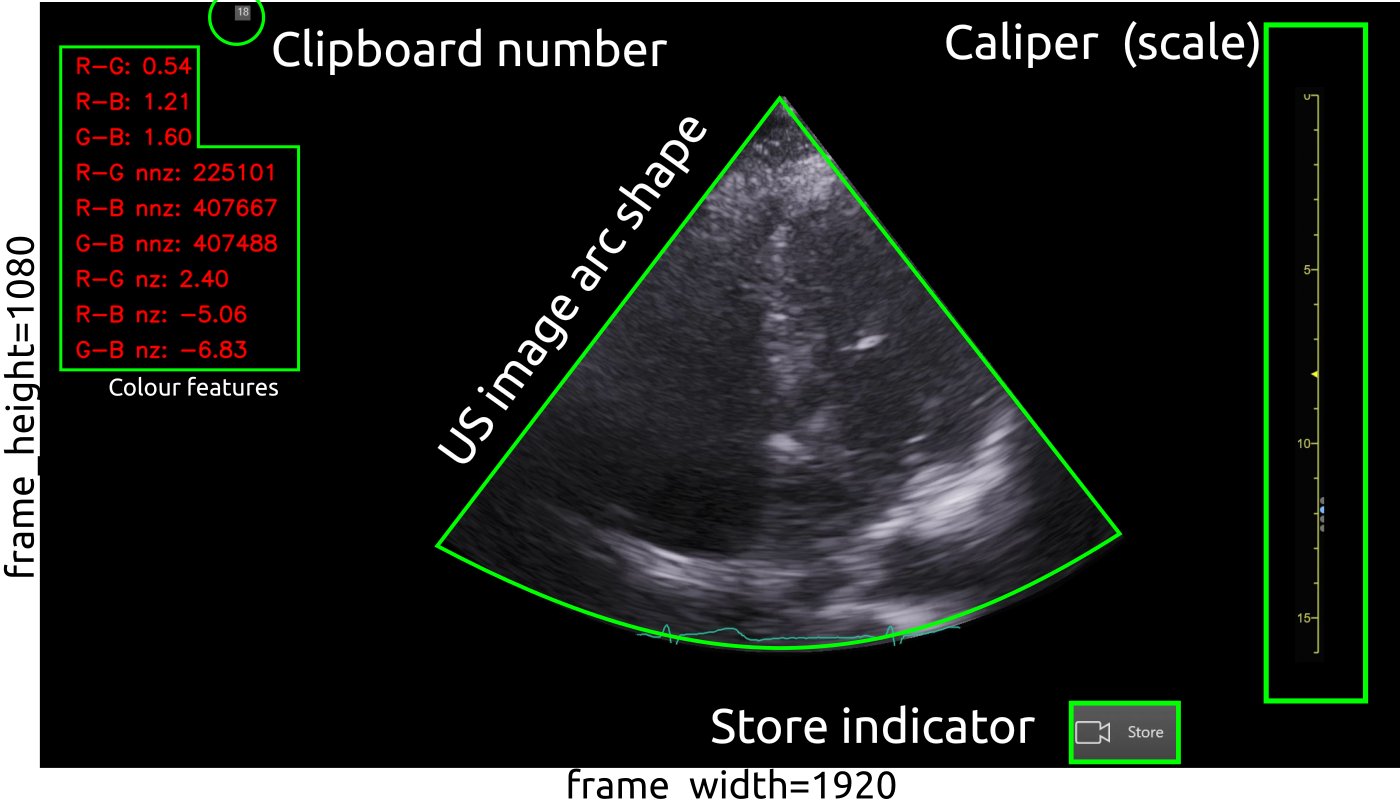
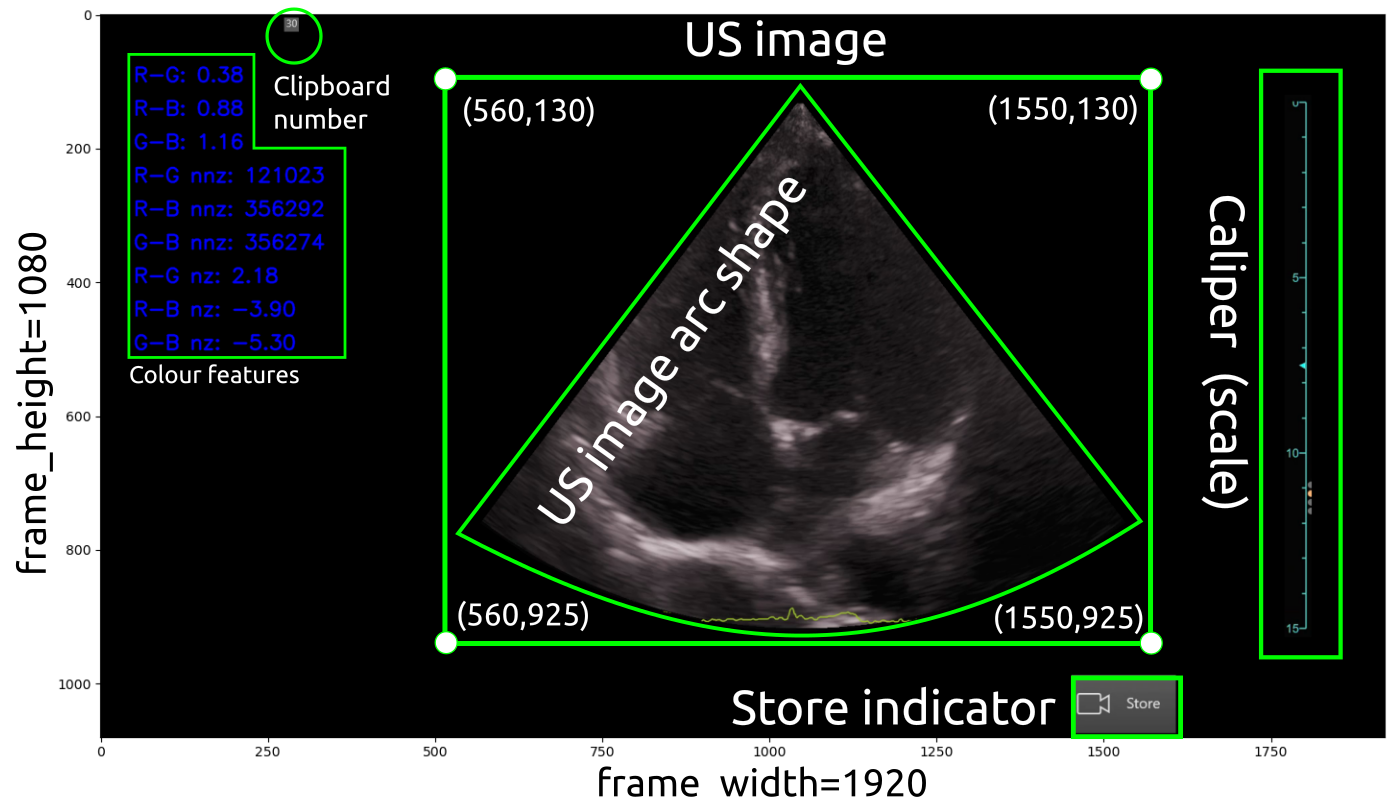
#13 adds: bounds to yml; methods for img; and updates main README

diff --git a/datasets/curation-and-selection/video_to_imageframes.py b/datasets/curation-and-selection/video_to_imageframes.py
@@ -2,7 +2,7 @@ import argparse
 import json
 import os
 from time import time
-from typing import Tuple
+from typing import Tuple, List
 
 import cv2 as cv
 import matplotlib.pyplot as plt
@@ -79,15 +79,23 @@ def maks_for_captured_us_image(image_frame_array_3ch: np.ndarray):
     maskedImage = cv.bitwise_and(image_frame_array_3ch, image_frame_array_3ch, mask=mask)
 
     # JUST FOR QUICK VISUALISATION OF THE MASKS
-    # plt.imshow(image_frame_array_BW_1ch)
-    # plt.imshow(maskedImage)
-    # plt.show()
 
     return maskedImage
 
+@timer_func
+def cropped_image_frame(image_frame_array_3ch: np.ndarray, bounds: List):
+    cropped_image_frame = image_frame_array_3ch[
+                      int(bounds['start_y']):int(bounds['start_y'] + bounds['height']),
+                      int(bounds['start_x']):int(bounds['start_x'] + bounds['width']), :]
+    return cropped_image_frame
+
+def show_image(ima_array: np.ndarray) -> None:
+    plt.imshow(ima_array)
+    plt.show()
+
 
 @timer_func
-def Video_to_ImageFrame(videofile_in: str, image_frames_path: str, path_with_json_file: str, bounds=None):
+def Video_to_ImageFrame(videofile_in: str, image_frames_path: str, path_with_json_file: str, bounds: List):
     """
      Computes Channel Measurements per Frame
      bounds: (start_x  ,start_y, width, heigh )
@@ -152,9 +160,7 @@ def Video_to_ImageFrame(videofile_in: str, image_frames_path: str, path_with_jso
 
                             print(image_frames_path + '/nframes{:05d}.png'.format(image_frame_index))
 
-                            # cropped_image_frame = image_frame[in/t(bounds[1]):int(bounds[1] + bounds[3]), int(bounds[0]):int(bounds[0] + bounds[2]), :]
                             masked_image_frame_array_3ch_i = maks_for_captured_us_image(image_frame_array_3ch_i)
-
 
                             Rch_image_frame_array = masked_image_frame_array_3ch_i[..., 2].astype(float)
                             Gch_image_frame_array = masked_image_frame_array_3ch_i[..., 1].astype(float)
@@ -222,17 +228,12 @@ def Video_to_ImageFrame(videofile_in: str, image_frames_path: str, path_with_jso
                                                                         fontScale,
                                                                         color, thickness,
                                                                         cv.LINE_AA)
+                            cv.imwrite(image_frames_path + '/nframes{:05d}.png'.format(image_frame_index), masked_image_frame_array_3ch_i)
 
-
-
-                            cv.imwrite(image_frames_path + '/nframes{:05d}.png'.format(image_frame_index),
-                                       masked_image_frame_array_3ch_i)
-
-
+                            # cropped_image_frame_= cropped_image_frame(image_frame_array_3ch_i, bounds)
+                            # cv.imwrite(image_frames_path + '/nframes{:05d}.png'.format(image_frame_index), cropped_image_frame_)
 
         image_frame_index += 1
-
-
 
     plt.subplot(1, 3, 1)
     plt.plot(rg, 'r-', label='r-g')
@@ -254,7 +255,6 @@ def Video_to_ImageFrame(videofile_in: str, image_frames_path: str, path_with_jso
     plt.legend()
     plt.savefig(image_frames_path + '/output.jpg')
 
-
     cap.release()
     cv.destroyAllWindows()
 
@@ -267,4 +267,4 @@ if __name__ == '__main__':
     with open(args.config, 'r') as yml:
         config = yaml.load(yml, Loader=yaml.FullLoader)
 
-    Video_to_ImageFrame(config['videofile_in'], config['image_frames_path'], config['path_with_json_file'])
+    Video_to_ImageFrame(config['videofile_in'], config['image_frames_path'], config['path_with_json_file'], config['bounds'])

diff --git a/datasets/curation-and-selection/README.md b/datasets/curation-and-selection/README.md
@@ -13,7 +13,7 @@ The script converts mp4 videos to png image frames of masked videos (Fig 1).
 * Example for `01NVb-003-071/`  
 Before running the script, make sure to edit [config.yml](config.yml) file with the right paths.
 ``` 
-cd $HOME/vital-us/echocardiography/datasets/curation-and-selection
+cd $HOME/repositories/echocardiography/datasets/curation-and-selection
 conda activate rt-ai-echo-VE
 python video_to_imageframes.py --config config.yml  
 ```
@@ -26,23 +26,11 @@ python video_to_imageframes.py --config config.yml
 ```
 
 
-* Terminal output for `01NVb-003-072/`
-``` 
-  Frame_height=1080,  frame_width=1920 fps=29.97151886813569 nframes=20129 
-```
-
-
-* Terminal output for `01NVb-003-073/`
-``` 
-  Frame_height=1080,  frame_width=1920 fps=29.971320446690754 nframes=23224 
-```
-
-
 ## [`video2sliding-video.py`](video_to_sliding_video.py)
 Terminal commands:
 ```
 conda activate rt-ai-echo-VE
-cd $HOME/vital-us/echocardiography/datasets/curation-and-selection
+cd $HOME/repositories/echocardiography/datasets/curation-and-selection
 python video_to_sliding_video.py --videofile_in $HOME/datasets/vital-us/raw-datasets/01NVb-003-001/T1/01NVb-003-001-echo.mp4 --videofile_out $HOME/datasets/vital-us/preprocessed-datasets/tmp/01NVb-003-001-echo-sliced.mp4 --bounds 100 100  
 ```
 
@@ -51,6 +39,6 @@ This script helps identify good pairs of images/labels and save them to a folder
 Terminal commands:
 ``` 
 conda activate rt-ai-echo-VE
-cd $HOME/vital-us/echocardiography/datasets/curation-and-selection
+cd $HOME/repositories/echocardiography/datasets/curation-and-selection
 python video_channel_measurement.py --videofile_in $HOME/datasets/vital-us/raw-datasets/01NVb-003-001/T1/01NVb-003-001-echo.mp4 --image_frames_path $HOME/datasets/vital-us/preprocessed-datasets/tmp/nframes_ --bounds 331 107 1477 823
 ```
